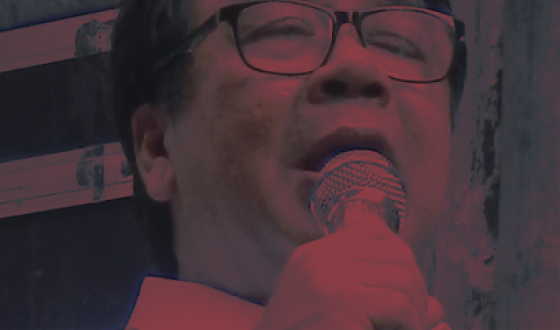
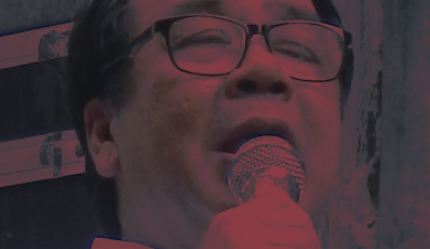
landing masonry

diff --git a/public/assets/styles/theme-landing.css b/public/assets/styles/theme-landing.css
@@ -1,2 +1,2 @@
-.loader{position:fixed;left:0px;top:0px;width:100vw;height:100vh;z-index:999999;background:#EFEFEF;pointer-events:none;animation:.75s ease-out 0.2s 1 pageload forwards;display:none}.loader .inner{position:absolute;top:50%;left:50%;transform:translate(-50%, -50%)}.loader h1{font-size:2.6em}.container{background:#EFEFEF}.box{padding:5vw}.box .box-inner{max-width:800px}#naruto{mix-blend-mode:darken;position:fixed;left:0;top:0;height:100%;width:100%;background-repeat:no-repeat;background-size:contain;max-width:450px;background-position:bottom left;pointer-events:none}@media only screen and (max-width: 760px){#naruto{max-width:200px}}#overlay{position:fixed;bottom:0;left:0;z-index:999;width:100%;height:90px;background:linear-gradient(0deg, #EFEFEF 0%, rgba(0,0,0,0) 100%);opacity:0.8}#navigation{left:50%;transform:translateX(-50%);max-width:1000px;margin:0 auto;background:linear-gradient(180deg, #EFEFEF 0%, #EFEFEF 60%, rgba(0,0,0,0) 100%)}#navigation a{color:#35383b}#navigation a:hover{color:#EFEFEF}#navigation .header-right a{margin-left:0;margin-right:1em}#hotanimeboy-2{opacity:0;left:-90px}#hotanimeboy-cover{background:linear-gradient(transparent 5%, #f0f0ea 95%, #f0f0ea 95%);position:fixed;z-index:-8;pointer-events:none;height:60vh;bottom:0;left:0;width:100%}#landing{margin:0 auto;padding-top:100px;padding-bottom:0}#landing .box-inner{width:900px;max-width:90vw}#landing .hello{font-size:1.25em;text-align:left;max-width:500px;margin-left:0;margin-right:auto}#landing .hello a{text-decoration:none;color:#0000cd}@media only screen and (max-width: 760px){#landing{letter-spacing:-1.5px;font-weight:100;font-size:1.75em;line-height:100%;padding:.75em;text-indent:0}}#landing #social{margin-top:0;width:100%;display:none}#landing #social a{color:#35383b;text-decoration:none;margin-right:1.5em;font-size:.8em}#landing #social a:hover{text-decoration:underline}#work{margin:0 auto;padding:0}#work .box-inner{max-width:1000px;width:90vw}#projects{display:flex;flex-wrap:wrap;justify-content:center}#projects a{color:#35383b;display:inline-block;font-size:1em;margin:.25em;padding:1.5em;text-decoration:none}#projects a ._images{display:none;max-width:90vw;max-height:300px;padding:1em 0}#projects a ._images img{margin-right:1.5%;max-width:45%;height:auto;object-fit:cover}#projects a h2{font-weight:100;font-size:1.25rem;font-family:"Inconsolata";text-transform:uppercase;padding:.25em;margin:0}#projects a h2::before{position:relative;left:-10px;content:"⤷"}#projects a p{margin:0;padding:0;max-width:250px;font-size:.9em}@media only screen and (max-width: 760px){#projects a ._images{max-width:100vw}#projects a ._images img{max-width:49%}#projects a p{font-size:.8em}}#projects:hover a:not(:hover){opacity:0.5}#experiments{margin:1.5em auto;width:90vw;max-width:880px;counter-reset:item;text-align:center}#experiments span.spacer{width:45px;display:inline-block}#experiments a{text-decoration:none;margin-right:.25em;margin-left:.25em;padding:.15em;line-height:120%;font-size:.9rem;font-weight:300;display:inline-block;color:#35383b}#experiments a::before{font-family:"Inconsolata";counter-increment:item;content:counter(item);border:1px solid #35383b;border-radius:100%;padding:.25em;font-size:.4em;display:inline-block;text-align:center;line-height:150%;width:18px;height:18px;margin-right:.5em;position:relative;bottom:6px;right:2.5px}#experiments a:hover::before{background:#35383b;color:#EFEFEF}@media only screen and (max-width: 760px){#experiments span.spacer{display:none}#experiments h2{font-size:2.8em}#experiments a{font-size:.8rem;display:inline-block;padding:0;margin:.25em}#experiments a::before{margin-right:.1em;height:16px;width:16px;font-size:.6em}}#newsletter{margin:1.5em 0;text-align:center}@keyframes pageload{0%{opacity:1}99%{opacity:0}100%{opacity:0}}
+.loader{position:fixed;left:0px;top:0px;width:100vw;height:100vh;z-index:999999;background:#EFEFEF;pointer-events:none;animation:.75s ease-out 0.2s 1 pageload forwards;display:none}.loader .inner{position:absolute;top:50%;left:50%;transform:translate(-50%, -50%)}.loader h1{font-size:2.6em}.container{background:#EFEFEF}.box{padding:5vw}#naruto{mix-blend-mode:darken;position:fixed;left:0;top:0;height:100%;width:100%;background-repeat:no-repeat;background-size:contain;max-width:420px;background-position:bottom left;pointer-events:none;opacity:0.75}@media only screen and (max-width: 1100px){#naruto{opacity:0.5}}@media only screen and (max-width: 760px){#naruto{max-width:200px}}#overlay{position:fixed;bottom:0;left:0;z-index:999;width:100%;height:90px;background:linear-gradient(0deg, #EFEFEF 0%, rgba(0,0,0,0) 100%);opacity:0.8}#navigation{left:50%;transform:translateX(-50%);max-width:1050px;margin:0 auto;background:linear-gradient(180deg, #EFEFEF 0%, #EFEFEF 60%, rgba(0,0,0,0) 100%)}#navigation a{color:#35383b}#navigation a:hover{color:#EFEFEF}#navigation .header-right a{margin-left:0;margin-right:1em}#hotanimeboy-2{opacity:0;left:-90px}#hotanimeboy-cover{background:linear-gradient(transparent 5%, #f0f0ea 95%, #f0f0ea 95%);position:fixed;z-index:-8;pointer-events:none;height:60vh;bottom:0;left:0;width:100%}#landing{margin:0 auto;padding-top:100px;padding-bottom:20px}#landing .box-inner{width:900px;max-width:90vw}#landing .hello{font-size:1.25em;text-align:left;max-width:500px;margin-left:0;margin-right:auto}#landing .hello a{text-decoration:none;color:#0000cd}@media only screen and (max-width: 760px){#landing{padding-top:50px}}#landing #social{margin-top:0;width:100%;display:none}#landing #social a{color:#35383b;text-decoration:none;margin-right:1.5em;font-size:.8em}#landing #social a:hover{text-decoration:underline}#work{margin:0 auto;padding:0}#work .box-inner{max-width:1000px;width:95vw;margin:0 auto}#projects{margin:0 auto}#projects a{color:#35383b;display:inline-block;font-size:1em;margin:.5em;padding:1em .5em;max-width:440px;text-decoration:none}#projects a ._images{filter:grayscale(1)}#projects a ._images img{max-width:80%;width:auto;height:auto;object-fit:cover}#projects a span.tag{font-family:"Inconsolata";text-transform:uppercase;font-size:.8em;letter-spacing:.1px;padding:.15em .25em;margin-right:.25em;border:1px solid #35383b;border-radius:8px}#projects a h2{font-weight:100;font-size:1.25rem;font-family:"Inconsolata";text-transform:uppercase;margin:0;margin-left:-18px}#projects a h2::before{position:relative;left:-10px;content:"⤷"}#projects a p{margin:0;padding:.25em 0;max-width:280px;font-size:.9em}#projects a:hover ._images{filter:grayscale(0)}@media only screen and (max-width: 1000px){#projects a{max-width:380px}#projects a ._images{max-width:100vw}#projects a ._images img{max-width:66%}#projects a p{font-size:.8em}}#experiments{margin:1.5em auto;width:90vw;max-width:880px;counter-reset:item;text-align:center}#experiments span.spacer{width:45px;display:inline-block}#experiments a{text-decoration:none;margin-right:.25em;margin-left:.25em;padding:.15em;line-height:120%;font-size:.9rem;font-weight:300;display:inline-block;color:#35383b}#experiments a::before{font-family:"Inconsolata";counter-increment:item;content:counter(item);border:1px solid #35383b;border-radius:100%;padding:.25em;font-size:.4em;display:inline-block;text-align:center;line-height:150%;width:18px;height:18px;margin-right:.5em;position:relative;bottom:6px;right:2.5px}#experiments a:hover::before{background:#35383b;color:#EFEFEF}@media only screen and (max-width: 760px){#experiments span.spacer{display:none}#experiments h2{font-size:2.8em}#experiments a{font-size:.8rem;display:inline-block;padding:0;margin:.25em}#experiments a::before{margin-right:.1em;height:16px;width:16px;font-size:.6em}}#newsletter{margin:1.5em 0;text-align:center}@keyframes pageload{0%{opacity:1}99%{opacity:0}100%{opacity:0}}
 

diff --git a/src/styles/landing.scss b/src/styles/landing.scss
@@ -36,17 +36,18 @@
 .box{
   padding: 5vw;
   
-  .box-inner{
-    max-width: 800px;
-  }
-  
 }
 
 // NARUTO
 
 #naruto{
-  mix-blend-mode: darken; position: fixed; left: 0; top: 0; height: 100%; width: 100%; background-repeat: no-repeat; background-size: contain; max-width: 450px; background-position: bottom left; 
+  mix-blend-mode: darken; position: fixed; left: 0; top: 0; height: 100%; width: 100%; background-repeat: no-repeat; background-size: contain; max-width: 420px; background-position: bottom left; 
   pointer-events: none;
+  opacity: 0.75;
+  
+    @media only screen and (max-width: 1100px) {
+      opacity: 0.5;
+  }
   
   @media only screen and (max-width: 760px) {
     max-width: 200px;
@@ -71,7 +72,7 @@
 #navigation{
   left: 50%;
   transform: translateX(-50%);
-  max-width: 1000px;
+  max-width: 1050px;
   margin: 0 auto;
 background: linear-gradient(180deg, $bg 0%, $bg 60%, rgba(0,0,0,0) 100%);
   
@@ -117,7 +118,7 @@ background: linear-gradient(180deg, $bg 0%, $bg 60%, rgba(0,0,0,0) 100%);
   
   margin: 0 auto;
   padding-top: 100px;
-  padding-bottom: 0;
+  padding-bottom: 20px;
   
   .box-inner{
     width: 900px;
@@ -145,12 +146,7 @@ background: linear-gradient(180deg, $bg 0%, $bg 60%, rgba(0,0,0,0) 100%);
   }
     
     @media only screen and (max-width: 760px) {
-      letter-spacing: -1.5px;
-      font-weight: 100;
-      font-size: 1.75em;
-      line-height: 100%;
-      padding: .75em;
-      text-indent: 0;
+      padding-top: 50px;
     }
   
   #social{
@@ -184,37 +180,46 @@ background: linear-gradient(180deg, $bg 0%, $bg 60%, rgba(0,0,0,0) 100%);
   
   .box-inner{
     max-width: 1000px;
-    width: 90vw;
+    width: 95vw;
+    margin: 0 auto;
   }
   
 }
 
 #projects{
-  display: flex;
-  flex-wrap: wrap;
-  justify-content: center;
+  
+  margin: 0 auto;
   
   a{
     color: $text;
     display: inline-block;
     font-size: 1em;
-    margin: .25em;
-    padding: 1.5em;
+    margin: .5em;
+    padding: 1em .5em;
+    max-width: 440px;
     text-decoration: none;
     
     ._images{
-      display: none;
-      max-width: 90vw;
-      max-height: 300px;
-      padding: 1em 0;
+      filter: grayscale(1);
       
       img{
-        margin-right: 1.5%;
-        max-width: 45%;
+        max-width: 80%;
+        width: auto;
         height: auto;
         object-fit: cover;
       }
       
+    }
+    
+    span.tag{
+      font-family: "Inconsolata";
+      text-transform: uppercase;
+      font-size: .8em;
+      letter-spacing: .1px;
+      padding: .15em .25em;
+      margin-right: .25em;
+      border: 1px solid $text;
+      border-radius: 8px;
     }
     
     h2{
@@ -222,9 +227,8 @@ background: linear-gradient(180deg, $bg 0%, $bg 60%, rgba(0,0,0,0) 100%);
       font-size: 1.25rem;
       font-family: "Inconsolata";
       text-transform: uppercase;
-      
-      padding: .25em;
       margin: 0;
+      margin-left: -18px;
     }
     
     h2::before{
@@ -235,32 +239,36 @@ background: linear-gradient(180deg, $bg 0%, $bg 60%, rgba(0,0,0,0) 100%);
     
     p{
       margin: 0;
-      padding: 0;
-      max-width: 250px;
+      padding: .25em 0;
+      max-width: 280px;
       font-size: .9em;
     }
     
   }
   
+  a:hover{
+    ._images{
+      filter: grayscale(0);
+    }
+  }
   
-    @media only screen and (max-width: 760px) {
+  
+    @media only screen and (max-width: 1000px) {
 
       a{
+        max-width: 380px;
+        
         ._images{
           max-width: 100vw;
           
           img{
-            max-width: 49%;
+            max-width: 66%;
           }
           
         }
         
         p{
           font-size: .8em;
-        }
-
-        h2{
-          
         }
         
       }
@@ -271,9 +279,9 @@ background: linear-gradient(180deg, $bg 0%, $bg 60%, rgba(0,0,0,0) 100%);
 }
 
 
-#projects:hover a:not(:hover) {
-  opacity: 0.5;
-}
+//#projects:hover a:not(:hover) {
+//  opacity: 0.5;
+//}
 
 
 #experiments{

diff --git a/public/index.html b/public/index.html
@@ -104,7 +104,7 @@ VERSION 1.4
           Chia studies Computing & the Arts at Yale, from Manila. They create radical systems for creators and communities in pursuit of making creation ubiquituous, as the internet age had given them.
         </p>
         <p>    
-          Currently nurturing technologists in Southeast Asia at <a href="https://developh.org">Developh</a>, bringing Filipinos together at <a href="https://kumu.ph">Kumu</a>, publishing every week at <a href="https://chias.blog">chias.blog</a>.
+          Currently nurturing technologists for humanity in the Philippines at <a href="https://developh.org">Developh</a>, exploring Filipino connection and creation at <a href="https://kumu.ph">Kumu</a>, publishing every week at <a href="https://chias.blog">chias.blog</a>.
         </p>
         </div>
         
@@ -140,12 +140,11 @@ VERSION 1.4
     <div class="box" id="work">
       <div class="box-inner">
 
-        <div id="projects" data-masonry='{ "itemSelector": "a", "columnWidth": auto }'>
+        <div id="projects" class="grid" data-masonry='{ "fitWidth": true}'>
 
           <a href="work/ibotoph.html">
             
             <div class="_images">
-            <img src="assets/portfolio/landing/ibotoph-1.jpg">
             <img src="assets/portfolio/landing/ibotoph-2.jpg">
             </div>
             
@@ -157,8 +156,11 @@ VERSION 1.4
 
           <hr>
 
-          <a href="work/ibotoph.html">
+          <a href="work/developh.html">
 
+            <div class="_images">
+            <img src="assets/portfolio/landing/developh.jpg">
+            </div>
             <h2>Developh</h2>
             <p>Bringing over 100,000 students in Southeast Asia to tech for social impact.</p>
             <span class="tag">Community</span>
@@ -170,6 +172,9 @@ VERSION 1.4
 
           <a href="work/lastfm.html">
 
+            <div class="_images">
+            <img src="assets/portfolio/landing/lastfm-2.jpg">
+            </div>
             <h2>Last.fm Mobile</h2>
             <p>Playing around with an old favorite music service that empowers streaming with data.</p>
             <span class="tag">Mobile</span>
@@ -200,6 +205,10 @@ VERSION 1.4
 
           <a href="punishing">
 
+            <div class="_images">
+            <img src="assets/portfolio/landing/punishing.jpg">
+            </div>
+            
             <h2>The Punishing</h2>
             <p>The shape of the web bends, deepens, and constricts itself to destroy the most vulnerable. </p>
             <span class="tag">Writing</span>
@@ -220,14 +229,19 @@ VERSION 1.4
 
           <a href="work/design.html">
 
+            <div class="_images">
+            <img src="assets/portfolio/landing/visuals.jpg">
+            </div>
             <h2>Visuals</h2>
-            <p>Curated collection of my miscellaneous graphic design and experimental visual work.</p>
+            <p>Curated collection of  graphic design  work.</p>
             <span class="tag">Visual</span>
 
           </a>
 
         </div>
 
+        <hr>
+        <hr>
         <hr>
 
         <div id="experiments">
